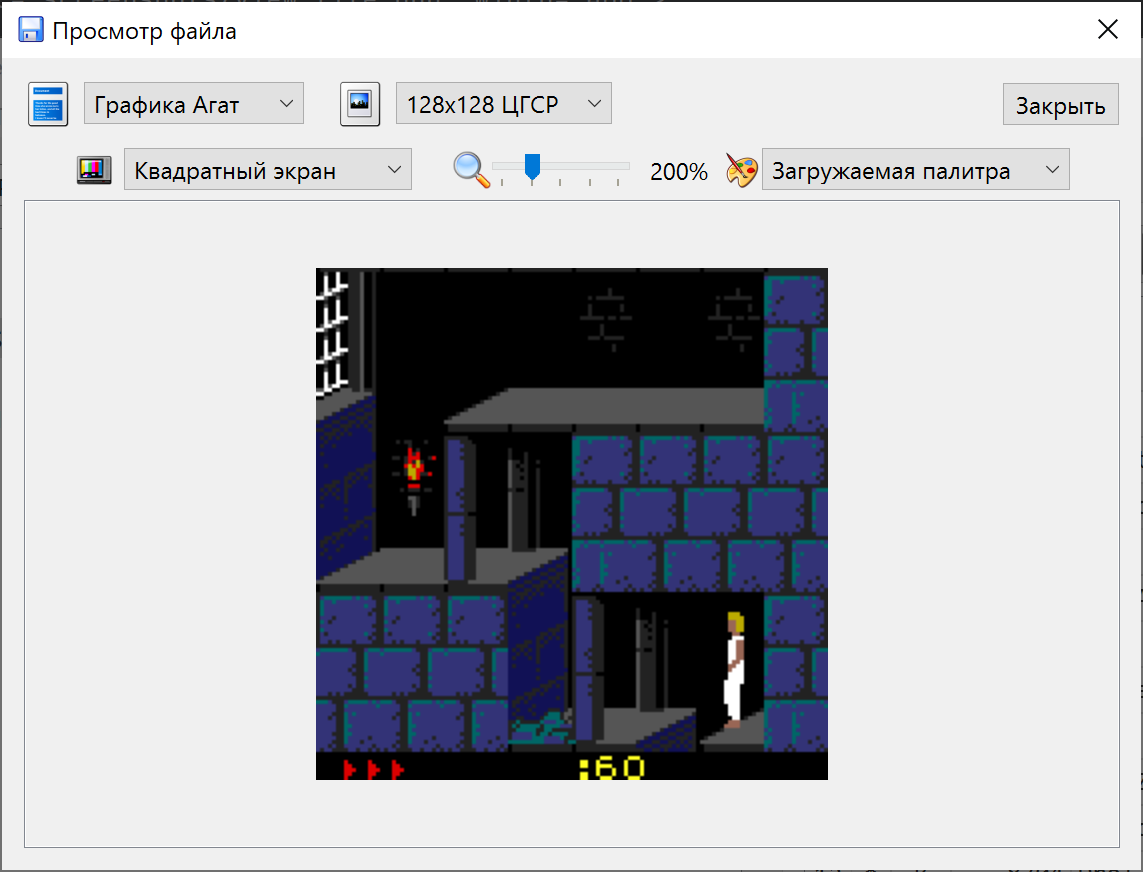
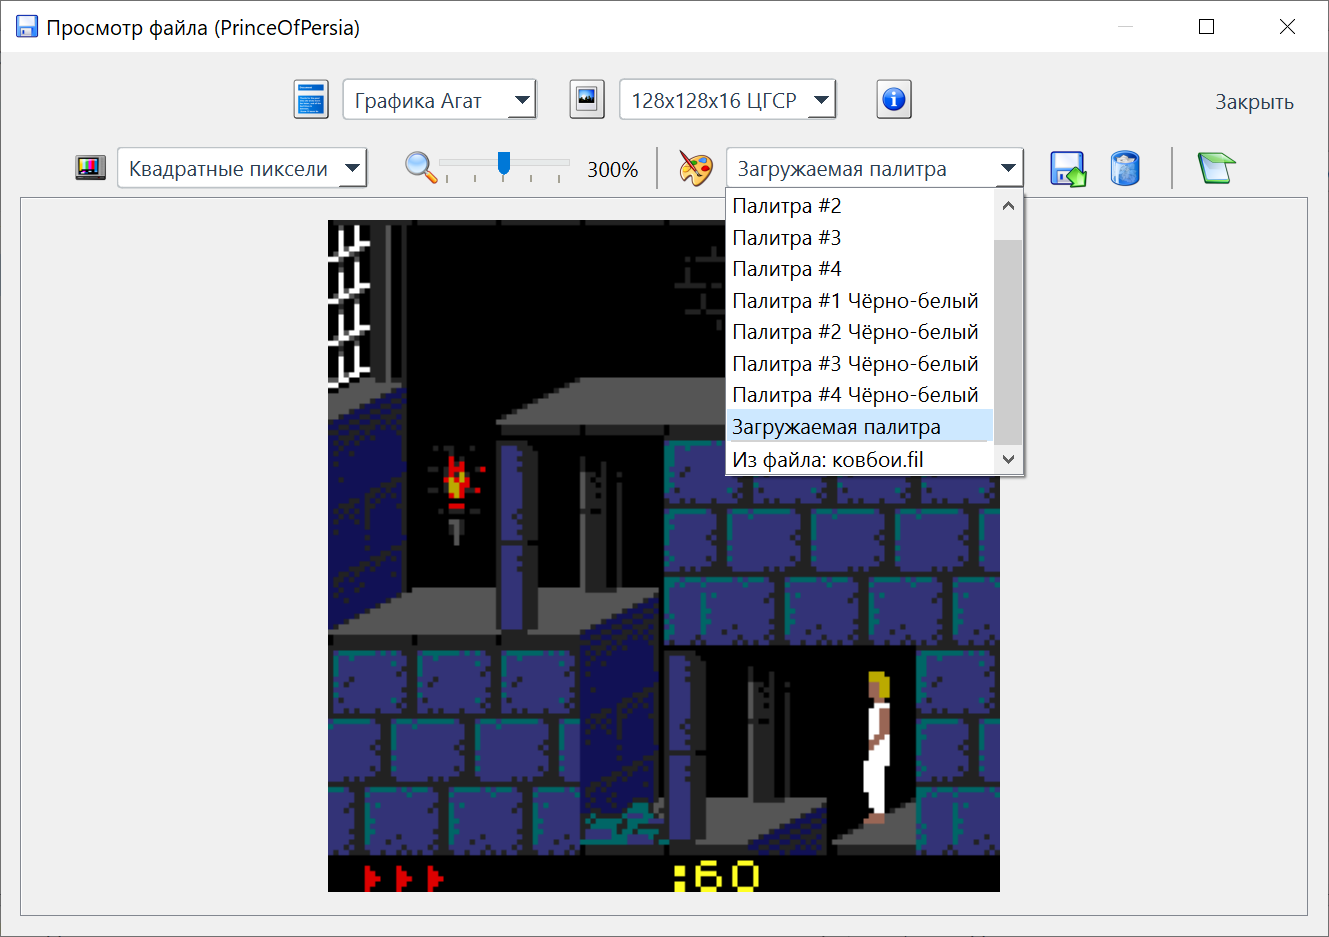
doc fix, version bump

diff --git a/src/globals.h b/src/globals.h
@@ -3,5 +3,5 @@
 #define PROJECT_NAME "DISKCommander"
 #define VERSION_MAJOR "2"
 #define VERSION_MINOR "1"
-#define VERSION_PATCH "1"
-#define PROJECT_VERSION "2.1.1"
+#define VERSION_PATCH "2"
+#define PROJECT_VERSION "2.1.2"

diff --git a/MANUAL.md b/MANUAL.md
@@ -35,7 +35,8 @@
 * **-** (Minus) &ndash; снять выделение со всех файлов;
 * __*__ (Asterisk) &ndash; инвертировать выделение;
 * **Tab** &ndash; переключиться на другую панель;
-* **F1** &ndash; вызов окна &laquo;О программе&raquo;;
+* **Alt-F1** и **Alt-F2** &ndash; выбор директории, соответственно, для левой или правой панели;
+* **F1** &ndash; вызов окна &laquo;О программе&raquo;
 * **F2** &ndash; сохранить изменённый образ (для DSK);
 * **Ctrl-F2** &ndash; экспортировать образ в другой формат;
 * **F3** &ndash; просмотр файла;
@@ -62,6 +63,10 @@
 
 В окне просмотра файла выбирается формат (Текст/двоичный/Бейсик и т.д.). Для текстовых форматов также выбирается кодировка, для графических &ndash; дополнительные параметры.
 
+Для текстовых файлов возможно скопировать содержимое окна в буфер обмена (<img src="src/resources/icons/window_list.png" width="20">) или сохранить в файл (<img src="src/resources/icons/3floppy_unmount.png" width="20">). При сохранении выбирается формат &ndash; текстовый или HTML. Вывод в HTML позволяет сохранить цветовое форматирование Бейсик-программ. 
+
+Кнопка <img src="src/resources/icons/info.png" width="20"> выводит информацию о файле (Ctrl-F3 в главном меню).
+
 #### Просмотр графических образов экранов Агат
 
 <p align="center">
@@ -70,15 +75,25 @@
 
 Для выбора доступны: соотношение сторон, масштаб и палитра. Если в файле присутствует заполненный [VR-блок](https://agatcomp.ru/agat/PCutils/EXIF.shtml), тип изображения и палитра будут выбраны автоматически. 
 
+Палитры #1-#4 это стандартные палитры компьютера для цветного и чёрно-белого мониторов. Загружаемая палитра находится в VR-блоке и в реальном компьютере включается при помощи дополнительной [платы палитр](https://agatcomp.ru/agat/Hardware/Chargen1.shtml).
+
+Также в список доступных палитр возможно добавить палитры из VR-блоков других файлов, для этого используются две кнопки справа от выпадающего списка &ndash; для выбора внешнего файла и очисти списка добавленных файлов.
+
+Кнопка <img src="src/resources/icons/info.png" width="20"> выводит информацию о файле (Ctrl-F3 в главном меню), <img src="src/resources/icons/khexedit.png" width="20"> показывает комментарий к файлу из VR-блока.
+
 #### Просмотр текстовых образов экранов Агат
 
 <p align="center">
 <img src="screenshots/view_agat_text.png" width="400">
 </p>
 
-Для текстовых форматов доступен выбор типа знакогенератора. Если в файле присутствует заполненный [VR-блок](https://agatcomp.ru/agat/PCutils/EXIF.shtml), знакогенератор будет выбран автоматически.
+Для текстовых форматов доступен выбор типа знакогенератора и палитры (подробнее см. выше). Если в файле присутствует заполненный [VR-блок](https://agatcomp.ru/agat/PCutils/EXIF.shtml), знакогенератор и палитра будут выбраны автоматически.
 
-Для загружаемых знакогенераторов: знакогенератор в формате ZG7 или ZG9 должен лежать вместе с просматриваемым файлом на образе диска или рядом с образом в файловой системе ОС компьютера в формате FIL. Файл FIL должен называться одинаково с именем загружаемого знакогенератора (&laquo;GARNIZON.fil&raquo;). Внутри FIL должен лежать файл с префиксом типа: &laquo;ZG9_GARNIZON&raquo;. 
+Для загружаемых знакогенераторов: знакогенератор в формате ZG7 или ZG9 должен лежать вместе с просматриваемым файлом на образе диска или рядом с образом в файловой системе ОС компьютера в формате FIL. Файл FIL должен называться одинаково с именем загружаемого знакогенератора (&laquo;GARNIZON.fil&raquo;). Внутри FIL должен лежать файл с префиксом типа: &laquo;ZG9_GARNIZON&raquo;.
+
+Также в список доступных знакогенераторов возможно добавить внешние файлы, для этого используются две кнопки справа от выпадающего списка &ndash; для выбора внешнего файла и очисти списка добавленных файлов.
+
+Кнопка <img src="src/resources/icons/info.png" width="20"> выводит информацию о файле (Ctrl-F3 в главном меню), <img src="src/resources/icons/khexedit.png" width="20"> показывает комментарий к файлу из VR-блока.
 
 ### Экспорт диска:
 

diff --git a/HISTORY.md b/HISTORY.md
@@ -1,12 +1,14 @@
 # История версий
 
-## [2.1.1]
+## [2.1.2]
 - Просмотр графики и текстовых экранов Агата:
   - [+] Переключение палитры для текстовых экранов.
   - [+] Просмотр файлов с палитрой и знакогенератором из другого файла.
   - [+] Просмотр комментария из VR-блока.
-- [~] Исправление ошибок
+- [~] Исправление ошибок и другие улучшения
   - [~] Исправлено чтение директорий SpriteOS ([#34](../../issues/34)).
+  - [~] Мелкие изменения в дизайне окон.
+  - [~] Падение 32-разрядной версии при закрытии окна просмотра файла.
 
 ## [2.0.0]
 - [+] Двухпанельный Norton Commander-подобный дизайн.
